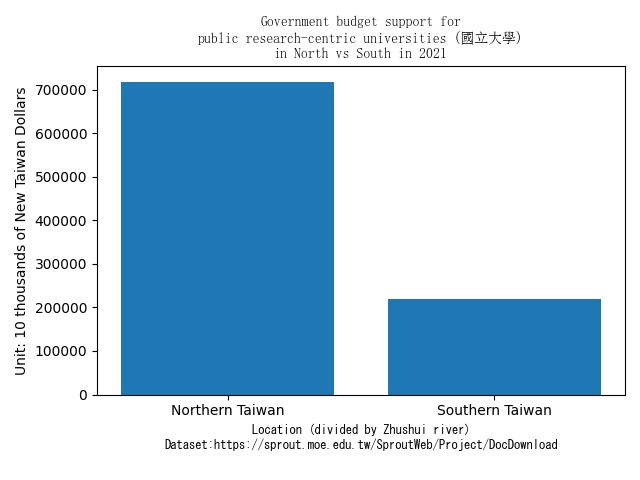
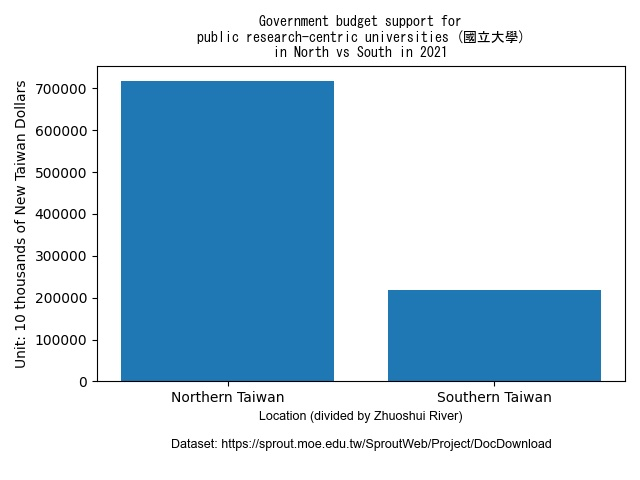
Committed 2021/08/15

diff --git a/The attainments and realizations of my dreams/Higher_education_resource_distribution_2021_.py b/The attainments and realizations of my dreams/Higher_education_resource_distribution_2021_.py
@@ -200,14 +200,14 @@ print(total_south_public_research)
 # The histogram of the data
 plt.bar(['Northern Taiwan', 'Southern Taiwan'], [total_north_public_research, total_south_public_research])
 
-plt.xlabel('Location (divided by Zhushui river)\n'
-           'Dataset:https://sprout.moe.edu.tw/SproutWeb/Project/DocDownload\n',
-           fontproperties="MS Gothic", fontsize=9)
+plt.xlabel('Location (divided by Zhuoshui River)\n\n'
+           'Dataset: https://sprout.moe.edu.tw/SproutWeb/Project/DocDownload\n',
+           fontproperties="Arial", fontsize=9)
 
 plt.ylabel('Unit: 10 thousands of New Taiwan Dollars')
 plt.title('Government budget support for\n'
           'public research-centric universities (國立大學)\n'
-          'in North vs South in 2021', fontproperties="SimSun") # [1]
+          'in North vs South in 2021', fontproperties="MS Gothic") # [1]
 
 # Tweak spacing to prevent clipping of ylabel
 plt.tight_layout()
